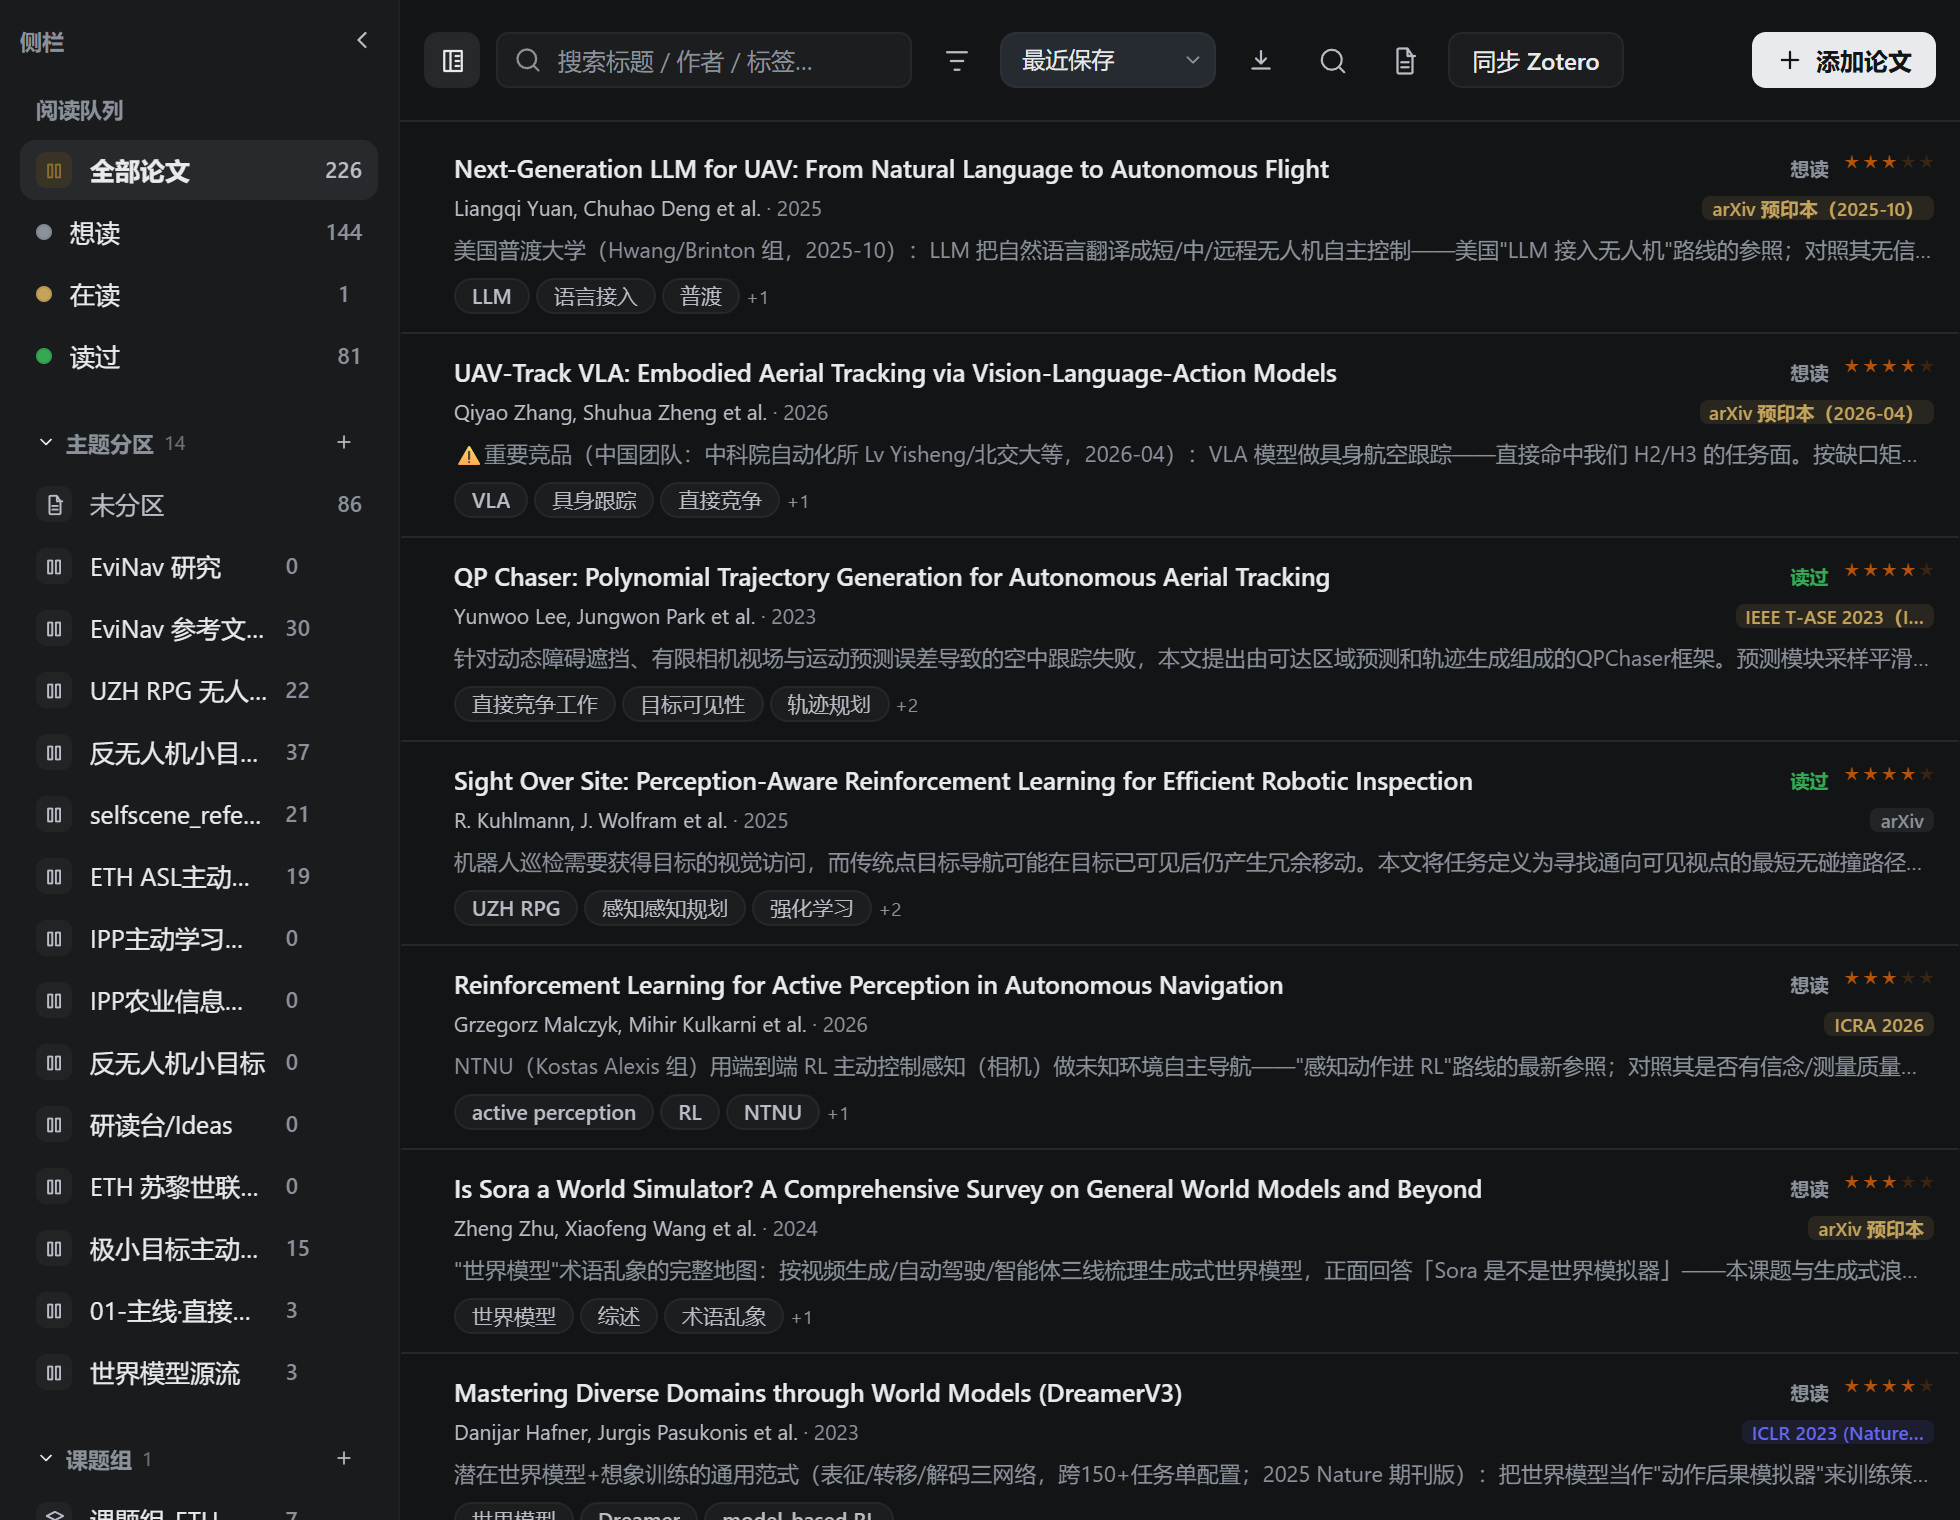
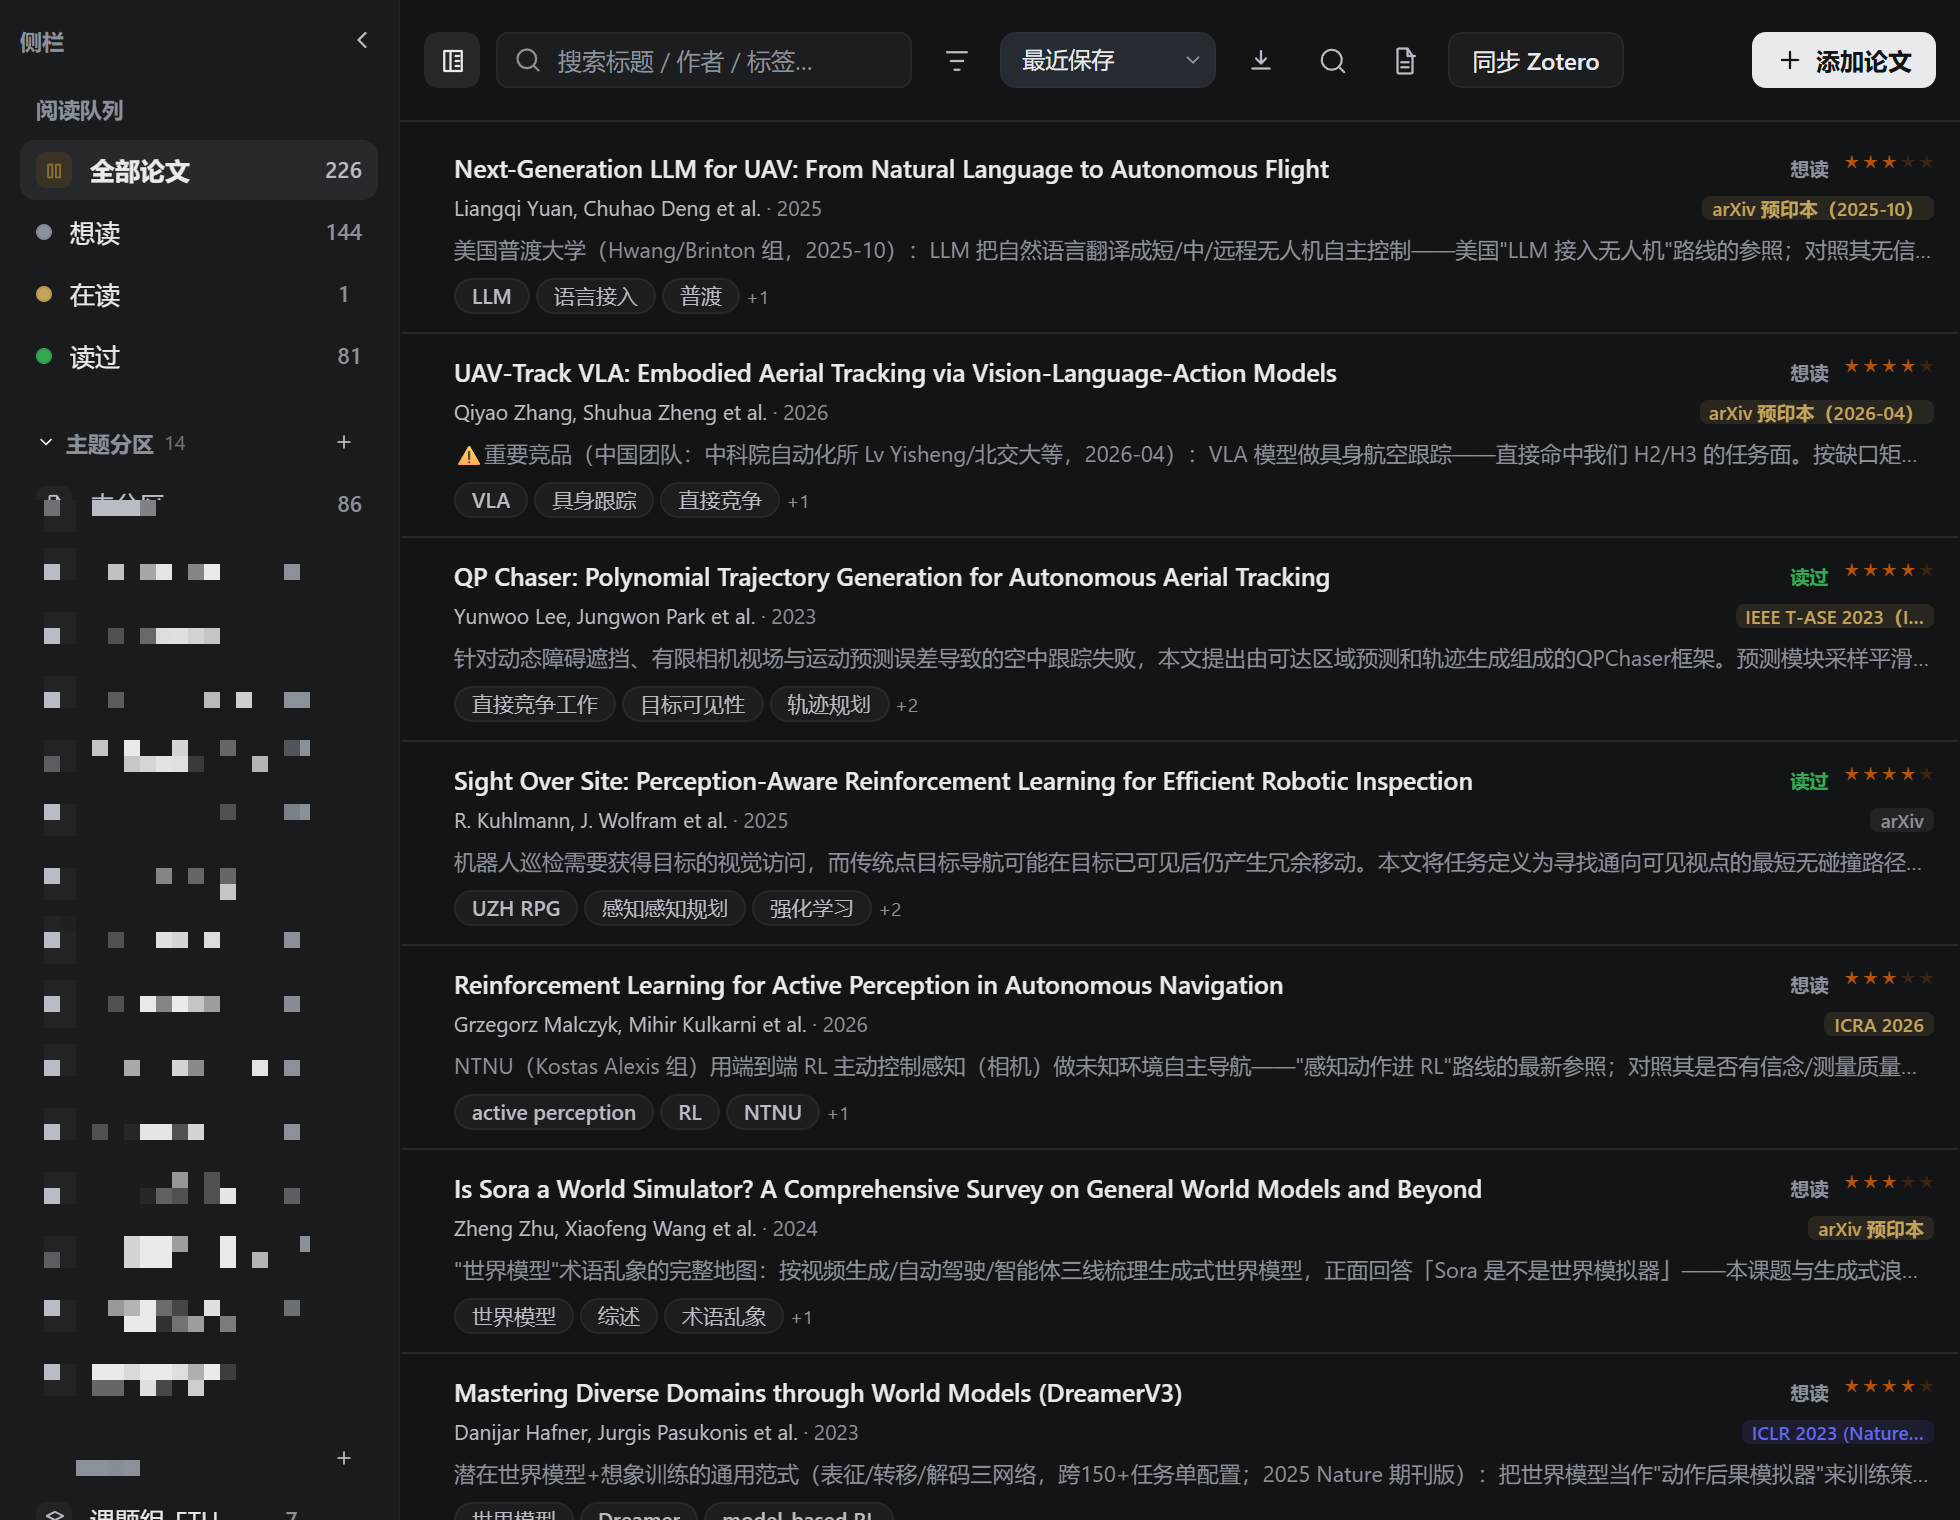
Collapse prefix-duplicate collections and mosaic them in the README.
Zotero was importing a short name and a longer name as two rows. Startup now keeps the longer label, and the published library shot no longer shows those private names.

Changed region(s): [[0.0, 0.3711, 0.1556, 0.9895], [0.0311, 0.3092, 0.0934, 0.3401]]

diff --git a/src/store.ts b/src/store.ts
@@ -172,17 +172,59 @@ export function filterProjects(all: ResearchProject[], query: ProjectQuery): Res
   return [...out].sort((a, b) => b.updatedAt - a.updatedAt);
 }
 
-/** Union of all tags across papers (sorted, deduped). */
+/** Compare labels ignoring case and inner spaces. */
+export function foldLabel(value: string): string {
+  return value.trim().replace(/\s+/g, '').toLowerCase();
+}
+
+/**
+ * True when two labels are the same topic: equal, or the shorter one is a
+ * prefix of the longer one (Zotero often imports both 「小目标」 and 「小目标识别」).
+ */
+export function labelsOverlap(a: string, b: string): boolean {
+  if (!a || !b) return false;
+  if (a === b) return true;
+  const short = a.length < b.length ? a : b;
+  const long = a.length < b.length ? b : a;
+  if (short.length < 4) return false;
+  if (!long.startsWith(short)) return false;
+  return short.length / long.length >= 0.6;
+}
+
+/** Drop blank, case-duplicate, and prefix-duplicate labels. Keeps the longer name. */
+export function collapseLabels(labels: string[]): string[] {
+  const kept: string[] = [];
+  for (const raw of labels) {
+    const label = raw.trim();
+    const key = foldLabel(label);
+    if (!key) continue;
+    const same = kept.findIndex((item) => foldLabel(item) === key);
+    if (same >= 0) {
+      if (label.length > kept[same].length) kept[same] = label;
+      continue;
+    }
+    const covered = kept.some((item) => labelsOverlap(foldLabel(item), key) && foldLabel(item).length >= key.length);
+    if (covered) continue;
+    for (let i = kept.length - 1; i >= 0; i--) {
+      const itemKey = foldLabel(kept[i]);
+      if (labelsOverlap(itemKey, key) && key.length > itemKey.length) kept.splice(i, 1);
+    }
+    kept.push(label);
+  }
+  return kept;
+}
+
+/** Union of all tags across papers (sorted, prefix-collapsed). */
 export function allPaperTags(papers: Iterable<Paper>): string[] {
-  const set = new Set<string>();
-  for (const p of papers) for (const tag of p.tags) set.add(tag);
-  return [...set].sort((a, b) => a.localeCompare(b));
+  const flat: string[] = [];
+  for (const p of papers) flat.push(...(p.tags ?? []));
+  return collapseLabels(flat).sort((a, b) => a.localeCompare(b, 'zh'));
 }
 
 export function allCardTags(cards: Iterable<IdeaCard>): string[] {
-  const set = new Set<string>();
-  for (const c of cards) for (const tag of c.tags) set.add(tag);
-  return [...set].sort((a, b) => a.localeCompare(b));
+  const flat: string[] = [];
+  for (const c of cards) flat.push(...(c.tags ?? []));
+  return collapseLabels(flat).sort((a, b) => a.localeCompare(b, 'zh'));
 }
 
 /**
@@ -468,6 +510,7 @@ export class PaperStore {
           this.collections.set(c.id, c);
         }
       }
+      await this.collapseDuplicateCollections();
     } catch { /* first run or corrupt — start empty */ }
 
     try {
@@ -709,13 +752,60 @@ export class PaperStore {
     return this.withLock(() => this.upsertCollectionUnlocked(name, color));
   }
 
+  /** Existing collection with the same name, or a shorter/longer prefix of it. */
+  private findOverlappingCollection(name: string): PaperCollection | undefined {
+    const key = foldLabel(name);
+    const list = this.listCollections();
+    return list.find((c) => foldLabel(c.name) === key)
+      ?? list.find((c) => labelsOverlap(foldLabel(c.name), key));
+  }
+
+  /**
+   * Merge collections that name the same topic. Papers move onto the longer name.
+   * Runs once at startup so Zotero prefix pairs do not stay as two rows.
+   */
+  private async collapseDuplicateCollections(): Promise<void> {
+    const sorted = this.listCollections().sort((a, b) => foldLabel(b.name).length - foldLabel(a.name).length);
+    const used = new Set<string>();
+    let changed = false;
+    for (const keeper of sorted) {
+      if (used.has(keeper.id)) continue;
+      used.add(keeper.id);
+      const key = foldLabel(keeper.name);
+      const drops = sorted.filter((c) => !used.has(c.id) && labelsOverlap(key, foldLabel(c.name)) && foldLabel(c.name).length <= key.length);
+      if (drops.length === 0) continue;
+      const dropIds = new Set(drops.map((c) => c.id));
+      for (const drop of drops) used.add(drop.id);
+      for (const paper of [...this.papers.values()]) {
+        const ids = paper.collectionIds ?? [];
+        if (!ids.some((id) => dropIds.has(id))) continue;
+        const collectionIds = [...new Set(ids.map((id) => (dropIds.has(id) ? keeper.id : id)))];
+        const next: Paper = { ...paper, collectionIds, updatedAt: Date.now() };
+        this.rememberPaper(next);
+        await this.atomicWrite(this.paperPath(paper.id), next);
+      }
+      for (const id of dropIds) this.collections.delete(id);
+      changed = true;
+    }
+    for (const paper of [...this.papers.values()]) {
+      const tags = collapseLabels(paper.tags ?? []);
+      const same = tags.length === (paper.tags ?? []).length && tags.every((tag, i) => tag === paper.tags[i]);
+      if (same) continue;
+      const next: Paper = { ...paper, tags, updatedAt: Date.now() };
+      this.rememberPaper(next);
+      await this.atomicWrite(this.paperPath(paper.id), next);
+    }
+    if (changed) await this.saveCollectionsJson();
+  }
+
   private async upsertCollectionUnlocked(name: string, color?: string): Promise<{ collection: PaperCollection; existed: boolean }> {
     const key = name.trim();
     if (!key) throw new Error('分区名称不能为空');
-    const hit = this.listCollections().find((c) => c.name.toLowerCase() === key.toLowerCase());
+    const hit = this.findOverlappingCollection(key);
     const now = Date.now();
     if (hit) {
-      const next: PaperCollection = { ...hit, color: color ?? hit.color, updatedAt: now };
+      const name = foldLabel(key).length > foldLabel(hit.name).length ? key : hit.name;
+      const next: PaperCollection = { ...hit, name, color: color ?? hit.color, updatedAt: now };
       this.collections.set(hit.id, next);
       await this.saveCollectionsJson();
       return { collection: next, existed: true };

diff --git a/src/zotero/engine.ts b/src/zotero/engine.ts
@@ -414,18 +414,15 @@ async function pullAll(ctx: {
     let col: PaperCollection | undefined;
     if (mapped) col = store.collections.get(mapped.scholarId);
     if (!col) {
-      col = [...store.collections.values()].find((c) => c.name.toLowerCase() === name.toLowerCase());
-    }
-    if (!col) {
       const created = await store.upsertCollection(name);
       col = created.collection;
-      result.pulled.collections++;
-    } else if (col.name !== name || col.zoteroKey !== key) {
-      const next = await store.patchCollection(col.id, {
-        name, zoteroKey: key, zoteroVersion: version, updatedAt: now,
-      });
+      if (!created.existed) result.pulled.collections++;
+    } else if (col.name !== name && name.length > col.name.length) {
+      const next = await store.patchCollection(col.id, { name, updatedAt: now });
       col = next ?? col;
-      result.pulled.collections++;
+    } else if (!col.zoteroKey) {
+      const next = await store.patchCollection(col.id, { zoteroKey: key, zoteroVersion: version, updatedAt: now });
+      col = next ?? col;
     }
     keyToColId.set(key, col.id);
     upsertEntry(map, {
